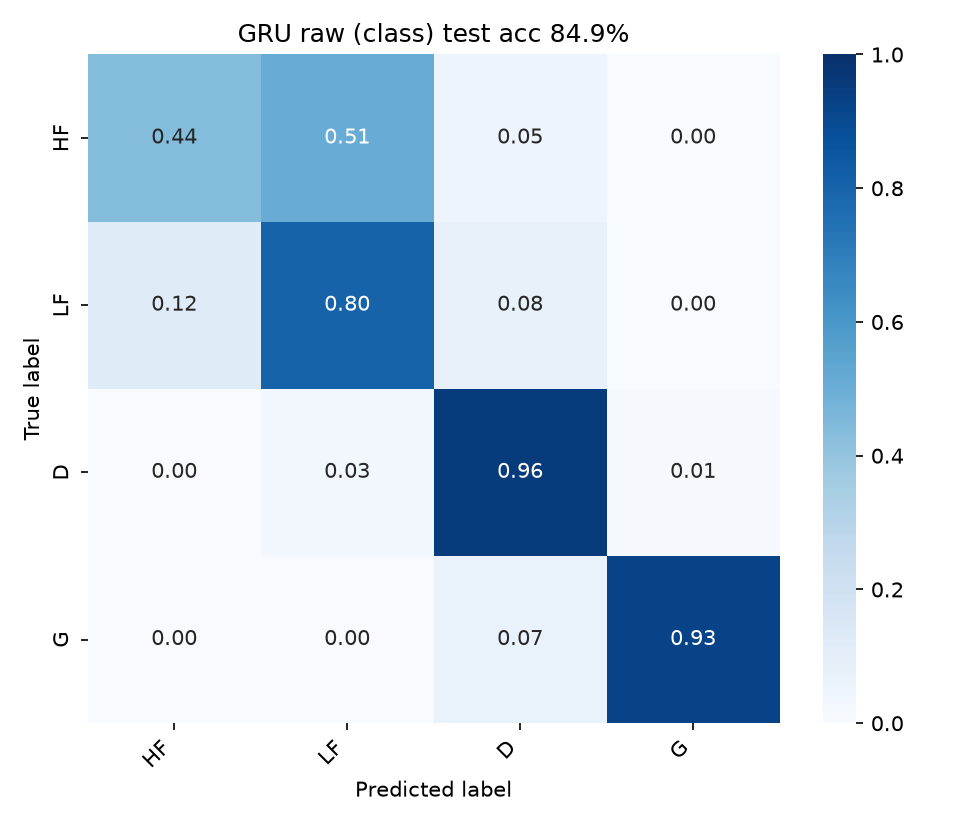
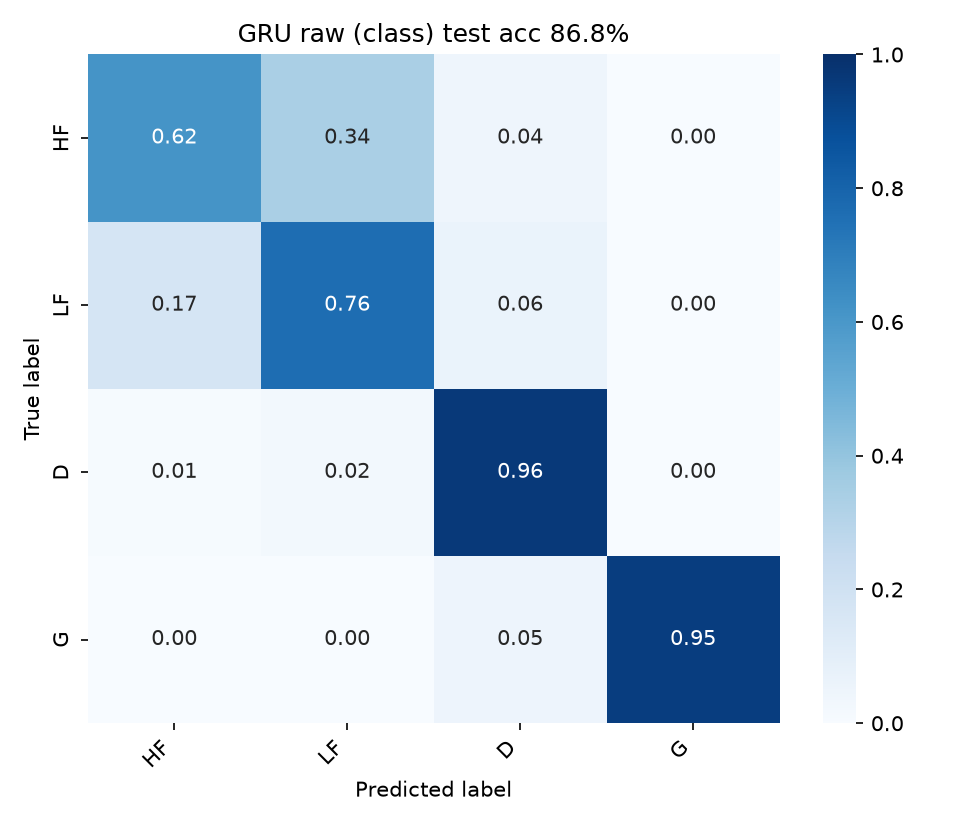
Retrain GRU with 150 epochs and update results

diff --git a/src/combine_results.py b/src/combine_results.py
@@ -14,8 +14,8 @@ rows = [
     ("CNN: raw data", cnn("raw", "class"), cnn("raw", "terrain")),
     ("CNN: raw + control features", cnn("control", "class"), cnn("control", "terrain")),
     ("CNN: raw + all 33 features", cnn("all", "class"), cnn("all", "terrain")),
-    ("GRU: raw data (20 epochs)", gru["raw_class"]["test_acc"], gru["raw_terrain"]["test_acc"]),
-    ("GRU: raw + all features (20 epochs)", gru["all_class"]["test_acc"], gru["all_terrain"]["test_acc"]),
+    ("GRU: raw data (150 epochs)", gru["raw_class"]["test_acc"], gru["raw_terrain"]["test_acc"]),
+    ("GRU: raw + all features (150 epochs)", gru["all_class"]["test_acc"], gru["all_terrain"]["test_acc"]),
 ]
 lines = ["| Model | Class acc (test) | Terrain acc (test) |", "|---|---|---|"]
 lines += [f"| {n} | {c:.1%} | {t:.1%} |" for n, c, t in rows]

diff --git a/outputs/final_results.md b/outputs/final_results.md
@@ -6,5 +6,5 @@
 | CNN: raw data | 87.5% | 64.3% |
 | CNN: raw + control features | 94.2% | 73.1% |
 | CNN: raw + all 33 features | 93.9% | 79.7% |
-| GRU: raw data (20 epochs) | 84.9% | 63.1% |
-| GRU: raw + all features (20 epochs) | 91.2% | 77.6% |
+| GRU: raw data (150 epochs) | 86.8% | 66.1% |
+| GRU: raw + all features (150 epochs) | 93.4% | 80.0% |
